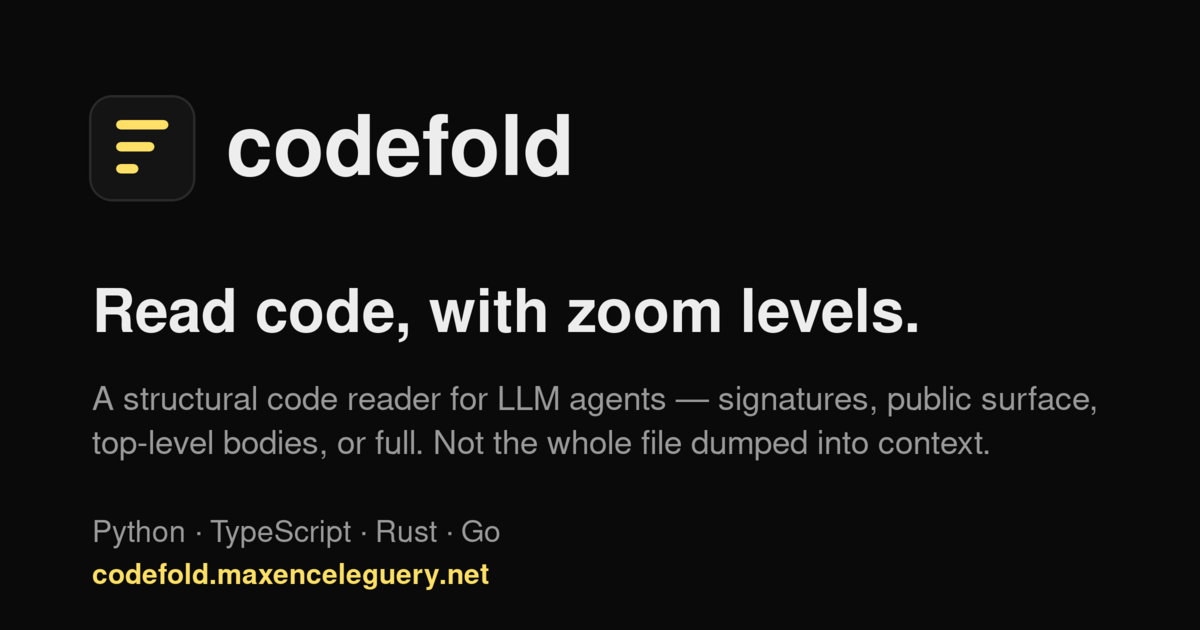
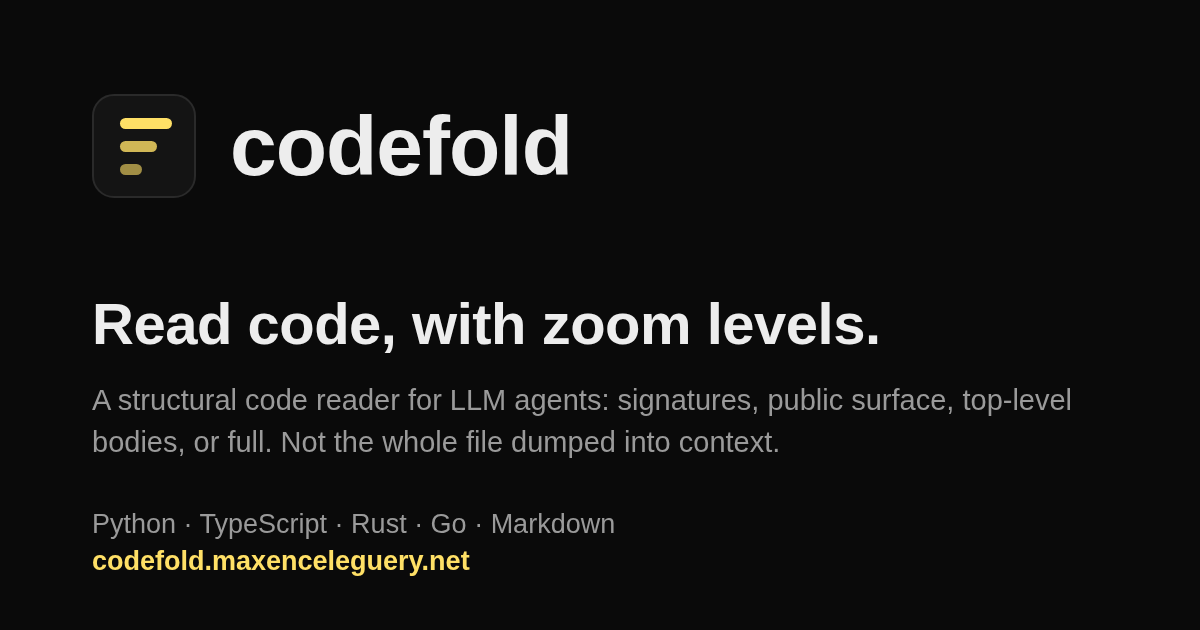
💄 landing: registry installs, real-file numbers, agent setup, Node, no em dashes

diff --git a/site/index.html b/site/index.html
@@ -3,16 +3,16 @@
   <head>
     <meta charset="utf-8" />
     <meta name="viewport" content="width=device-width, initial-scale=1" />
-    <title>codefold — Read, with zoom levels</title>
+    <title>codefold: Read, with zoom levels</title>
     <meta
       name="description"
-      content="codefold is a structural code reader for LLM agents. A pure library that returns a chosen level of detail for a single file — signatures, public surface, top-level bodies, or full — instead of dumping the whole file into context."
+      content="codefold is a structural code reader for LLM agents. It folds a file to signatures, public surface, top-level bodies, or full, cutting 50 to 90% of read tokens on large files. Python, TypeScript, Rust, Go, Markdown. CLI, Python, Node and Rust."
     />
     <meta name="theme-color" content="#0a0a0a" />
-    <meta property="og:title" content="codefold — Read, with zoom levels" />
+    <meta property="og:title" content="codefold: Read, with zoom levels" />
     <meta
       property="og:description"
-      content="Structural code reader for LLM agents. Python, TypeScript, Rust, Go."
+      content="Structural code reader for LLM agents. Cut 50 to 90% of read tokens on large files. Python, TypeScript, Rust, Go, Markdown."
     />
     <link rel="icon" href="/favicon.svg" type="image/svg+xml" />
     <link rel="canonical" href="https://codefold.maxenceleguery.net/" />
@@ -24,10 +24,10 @@
     <meta property="og:image:width" content="1200" />
     <meta property="og:image:height" content="630" />
     <meta name="twitter:card" content="summary_large_image" />
-    <meta name="twitter:title" content="codefold — Read, with zoom levels" />
+    <meta name="twitter:title" content="codefold: Read, with zoom levels" />
     <meta
       name="twitter:description"
-      content="Structural code reader for LLM agents. Python, TypeScript, Rust, Go."
+      content="Structural code reader for LLM agents. Cut 50 to 90% of read tokens on large files. Python, TypeScript, Rust, Go, Markdown."
     />
     <meta name="twitter:image" content="https://codefold.maxenceleguery.net/og.png" />
     <script type="application/ld+json">
@@ -37,10 +37,11 @@
         "name": "codefold",
         "applicationCategory": "DeveloperApplication",
         "operatingSystem": "Cross-platform",
-        "description": "A structural code reader for LLM agents — returns a chosen level of detail for a file (signatures, public surface, top-level bodies, or full) instead of dumping the whole file into context.",
+        "description": "A structural code reader for LLM agents: returns a chosen level of detail for a file (signatures, public surface, top-level bodies, or full) instead of dumping the whole file into context.",
+        "softwareVersion": "0.9.0",
         "url": "https://codefold.maxenceleguery.net/",
         "codeRepository": "https://github.com/maxenceleguery/codefold",
-        "programmingLanguage": ["Python", "TypeScript", "Rust", "Go"],
+        "programmingLanguage": "Rust",
         "author": { "@type": "Person", "name": "Maxence Leguéry", "url": "https://maxenceleguery.net" },
         "isAccessibleForFree": true,
         "offers": { "@type": "Offer", "price": "0", "priceCurrency": "USD" }
@@ -147,6 +148,20 @@
         color: var(--muted);
         font-weight: 600;
       }
+      .table-wrap {
+        overflow-x: auto;
+        margin: 0 0 16px;
+      }
+      .table-wrap table {
+        margin: 0;
+      }
+      /* Phones: keep File + Saving visible, drop the signatures column. */
+      @media (max-width: 520px) {
+        .table-wrap th:nth-child(3),
+        .table-wrap td:nth-child(3) {
+          display: none;
+        }
+      }
       td.num {
         text-align: right;
         font-variant-numeric: tabular-nums;
@@ -203,56 +218,114 @@
 
         <p>
           A structural code reader for LLM agents. Hand it a file and a zoom
-          level — it gives you back the slice of the file the model actually
+          level; it gives you back the slice of the file the model actually
           needs to see, instead of dumping the whole file into context.
         </p>
 
         <p>
           <span class="pill">Python</span> <span class="pill">TypeScript</span>
-          <span class="pill">Rust</span> <span class="pill">Go</span>
+          <span class="pill">TSX / JSX</span> <span class="pill">Rust</span>
+          <span class="pill">Go</span> <span class="pill">Markdown</span>
         </p>
       </header>
 
-      <h2>Compression on real fixtures</h2>
-      <table>
-        <thead>
-          <tr>
-            <th>File</th>
-            <th class="num">Full</th>
-            <th class="num">Signatures</th>
-            <th class="num">Saving</th>
-          </tr>
-        </thead>
-        <tbody>
-          <tr>
-            <td><code>auth.py</code> (90 LOC)</td>
-            <td class="num">474 tok</td>
-            <td class="num">320 tok</td>
-            <td class="num save">−32%</td>
-          </tr>
-          <tr>
-            <td><code>heavy.py</code> (110 LOC, body-heavy)</td>
-            <td class="num">809 tok</td>
-            <td class="num">212 tok</td>
-            <td class="num save">−74%</td>
-          </tr>
-          <tr>
-            <td><code>auth.ts</code> (75 LOC)</td>
-            <td class="num">468 tok</td>
-            <td class="num">324 tok</td>
-            <td class="num save">−31%</td>
-          </tr>
-        </tbody>
-      </table>
+      <h2>Install</h2>
+      <pre><code>pip install codefold                    # Python
+npm install @maxenceleguery/codefold    # Node.js
+cargo install codefold-cli              # CLI
+cargo add codefold-core                 # Rust library</code></pre>
       <p>
-        On real-world service files over 500 lines, expect 70–90% token
-        reductions at <code>signatures</code> level.
+        Prebuilt wheels and native binaries for Linux, macOS and Windows.
+      </p>
+
+      <h2>Token savings on real files</h2>
+      <div class="table-wrap">
+        <table>
+          <thead>
+            <tr>
+              <th>File</th>
+              <th class="num">Full</th>
+              <th class="num">signatures</th>
+              <th class="num">Saving</th>
+            </tr>
+          </thead>
+          <tbody>
+            <tr>
+              <td>supabase <code>GoTrueClient.ts</code></td>
+              <td class="num">59.5k</td>
+              <td class="num">8.2k</td>
+              <td class="num save">&minus;87%</td>
+            </tr>
+            <tr>
+              <td>CPython <code>asyncio/base_events.py</code></td>
+              <td class="num">15.9k</td>
+              <td class="num">2.8k</td>
+              <td class="num save">&minus;83%</td>
+            </tr>
+            <tr>
+              <td>Go <code>encoding/json/encode.go</code></td>
+              <td class="num">11.0k</td>
+              <td class="num">2.2k</td>
+              <td class="num save">&minus;80%</td>
+            </tr>
+            <tr>
+              <td>clap_builder <code>command.rs</code></td>
+              <td class="num">43.5k</td>
+              <td class="num">10.4k</td>
+              <td class="num save">&minus;77%</td>
+            </tr>
+            <tr>
+              <td>CPython <code>argparse.py</code></td>
+              <td class="num">20.3k</td>
+              <td class="num">5.2k</td>
+              <td class="num save">&minus;75%</td>
+            </tr>
+            <tr>
+              <td>Go <code>net/http/server.go</code></td>
+              <td class="num">34.7k</td>
+              <td class="num">11.5k</td>
+              <td class="num save">&minus;67%</td>
+            </tr>
+            <tr>
+              <td>serde_json <code>de.rs</code></td>
+              <td class="num">21.0k</td>
+              <td class="num">7.8k</td>
+              <td class="num save">&minus;63%</td>
+            </tr>
+            <tr>
+              <td>zod <code>v3/types.ts</code></td>
+              <td class="num">41.4k</td>
+              <td class="num">21.6k</td>
+              <td class="num save">&minus;48%</td>
+            </tr>
+          </tbody>
+        </table>
+      </div>
+      <p>
+        Tokens (cl100k) measured with codefold 0.9. Savings follow the
+        body-to-signature ratio: implementation-heavy files shrink most,
+        type-heavy files like zod keep more. <code>public</code> goes further,
+        to 73 to 91% on most of these.
+      </p>
+
+      <h2>Use it from your agent</h2>
+      <pre><code>codefold setup                  # this project: CLAUDE.md, Cursor, Copilot
+codefold setup --scope user     # everywhere: ~/.claude/CLAUDE.md + a Claude Code skill
+codefold setup --list           # what's installed, and is it current
+codefold setup --uninstall
+codefold doctor</code></pre>
+      <p>
+        <code>setup</code> writes a short, idempotent instruction block telling
+        the agent to reach for <code>codefold</code> before a raw file read,
+        and to brief its subagents about it too.
       </p>
 
       <h2>CLI</h2>
-      <pre><code>codefold src/auth.py --level signatures
+      <pre><code>codefold src/auth.py                               # signatures (default)
 codefold src/auth.py --level bodies --focus login,verify_token
-codefold src/handlers.ts --level public --stats</code></pre>
+codefold src/*.ts --level public --stats           # many files at once
+codefold src/auth.py --format json                 # symbols + hidden line ranges
+git show HEAD:src/auth.py | codefold - --lang python</code></pre>
 
       <h2>Python</h2>
       <pre><code>import codefold
@@ -261,9 +334,17 @@ r = codefold.read("src/auth.py", level="signatures")
 print(r.content)
 print(f"~{r.tokens_est} tokens, {len(r.symbols)} symbols, {r.language}")
 
-# With focus
-r = codefold.read("src/auth.py", level="signatures",
-                  focus=["login", "verify_token"])</code></pre>
+# Keep `login` in full, the rest as signatures
+r = codefold.read("src/auth.py", focus=["login"])
+
+# Code you already have in memory
+r = codefold.read_source(source, "typescript", level="public")</code></pre>
+
+      <h2>Node.js</h2>
+      <pre><code>import { read, readSource } from "@maxenceleguery/codefold";
+
+const r = read("src/auth.py", "signatures", ["login"]);
+const r2 = readSource(buffer, "tsx", "public");</code></pre>
 
       <h2>Rust</h2>
       <pre><code>use codefold_core::{read, read_opts, Level, Options};
@@ -275,49 +356,36 @@ let r = read_opts("src/auth.py".as_ref(), opts)?;</code></pre>
       <h2>Levels</h2>
       <ul>
         <li>
-          <code>full</code> — the file verbatim. For API symmetry.
+          <code>signatures</code>: imports, top-level constants, function and
+          class signatures, and the first paragraph of each docstring or doc
+          comment. Bodies become <code>...</code>. Markdown keeps its headings.
         </li>
         <li>
-          <code>signatures</code> — imports, top-level constants, function /
-          class signatures, docstring summaries. Bodies replaced with
-          <code>...</code>.
+          <code>public</code>: like <code>signatures</code>, limited to the
+          public surface (Python: no <code>_</code> prefix; TypeScript:
+          <code>export</code>ed; Rust: <code>pub</code>; Go: uppercase-first).
         </li>
         <li>
-          <code>public</code> — like <code>signatures</code>, but only
-          public-by-convention symbols (Python: not <code>_</code>-prefixed;
-          TypeScript: <code>export</code>ed; Rust: <code>pub</code>; Go:
-          uppercase-first).
+          <code>bodies</code>: top-level and method bodies in full, nested
+          function bodies collapsed.
         </li>
-        <li>
-          <code>bodies</code> — top-level &amp; class-method bodies in full;
-          nested function bodies collapsed.
-        </li>
+        <li><code>full</code>: the file verbatim, for API symmetry.</li>
       </ul>
+      <p>
+        <code>focus</code> lifts named symbols to full body and full docs at any
+        level.
+      </p>
 
       <h2>Positioning</h2>
       <p>
-        The agent-tooling space is busy. codefold's niche: a stateless,
-        embeddable <em>primitive</em> — not a CLI middleware
+        The agent-tooling space is busy. codefold's niche is a stateless,
+        embeddable <em>primitive</em>: not CLI middleware
         (<a href="https://github.com/dean0x/skim">skim</a>) and not a whole-repo
         knowledge graph
         (<a href="https://github.com/DeusData/codebase-memory-mcp"
           >codebase-memory-mcp</a
-        >). If you're building an agent framework or a code-aware tool and you
-        need granular single-file reads, codefold drops in as a library.
-      </p>
-
-      <h2>Install</h2>
-      <pre><code># CLI
-cargo install --git https://github.com/maxenceleguery/codefold codefold-cli
-
-# Python (Rust toolchain required at build time)
-uv venv && source .venv/bin/activate
-uv pip install maturin
-uv run maturin develop --release --manifest-path codefold/bindings/python/Cargo.toml</code></pre>
-
-      <p>
-        Binary wheels on PyPI and a published crate on crates.io are on the
-        roadmap.
+        >). If you're building an agent framework or a code-aware tool and need
+        granular single-file reads, codefold drops in as a library.
       </p>
 
       <footer>
